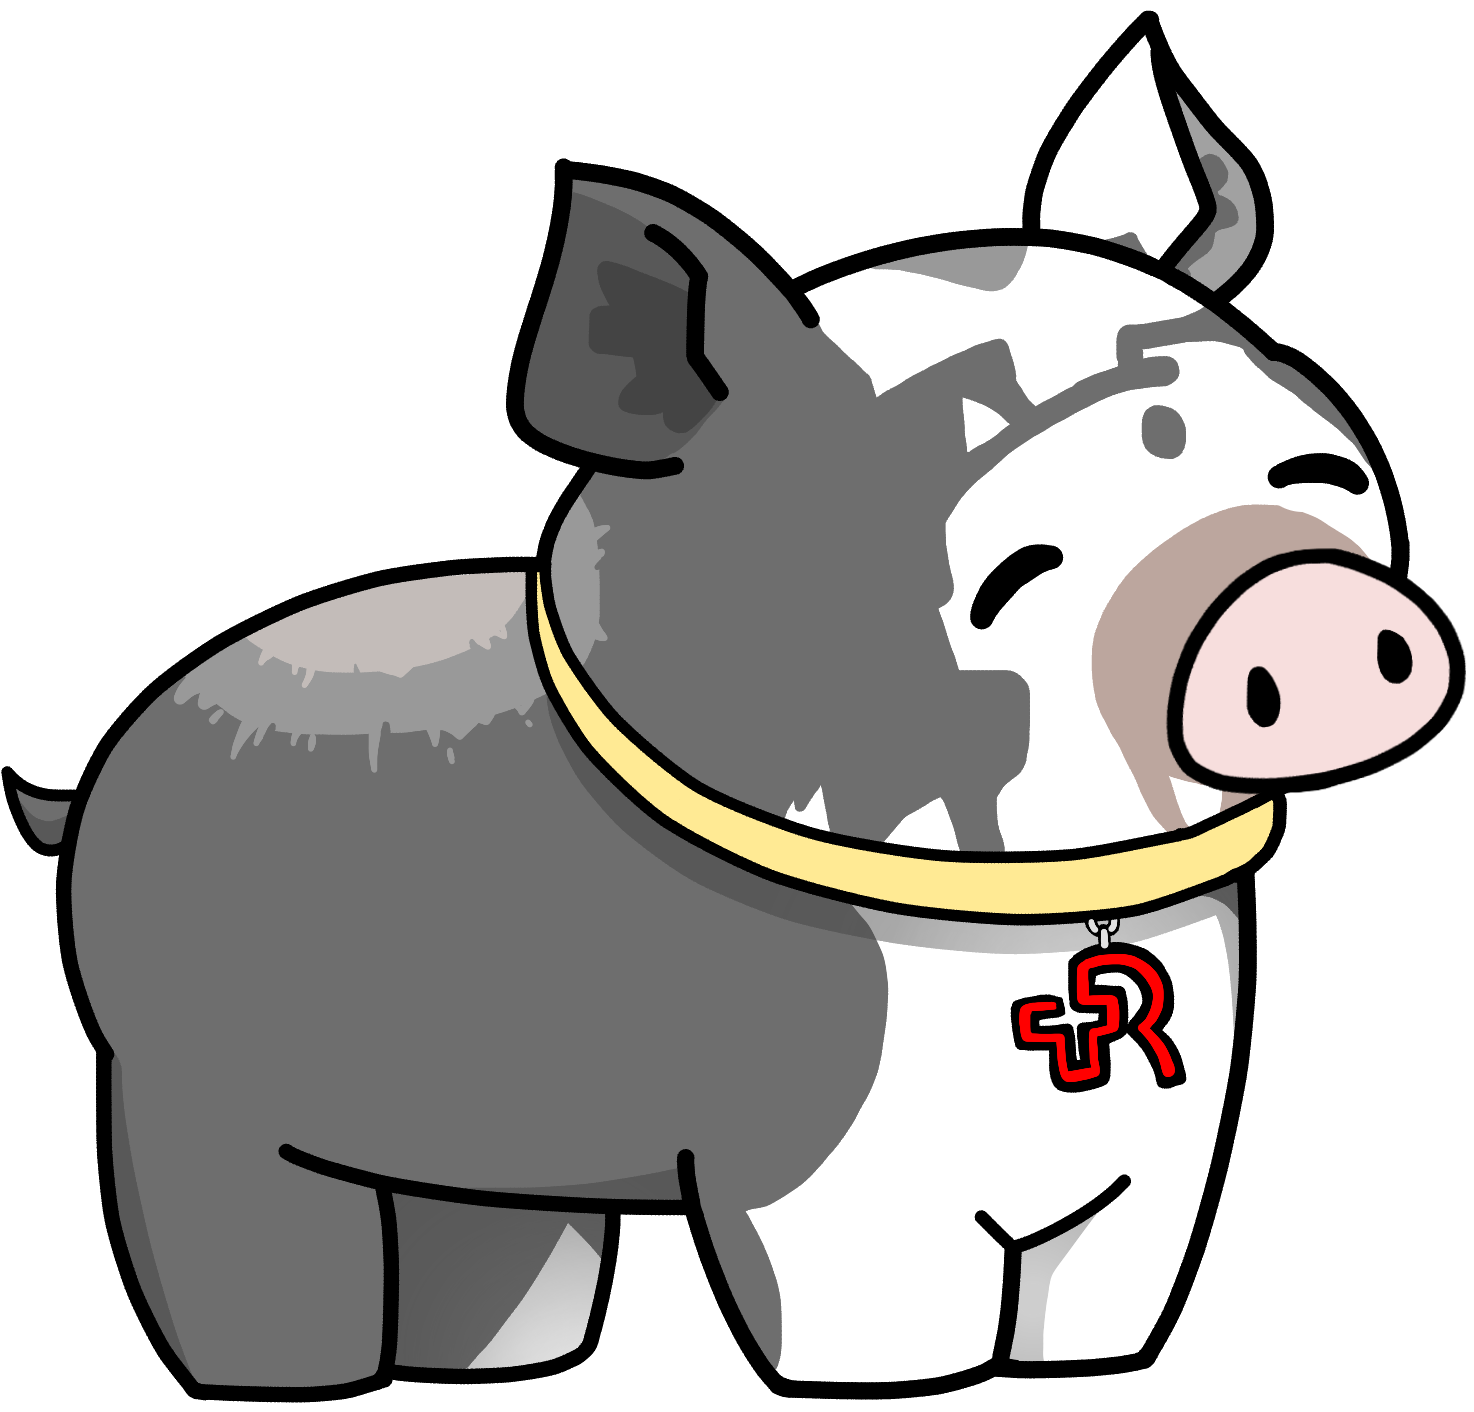
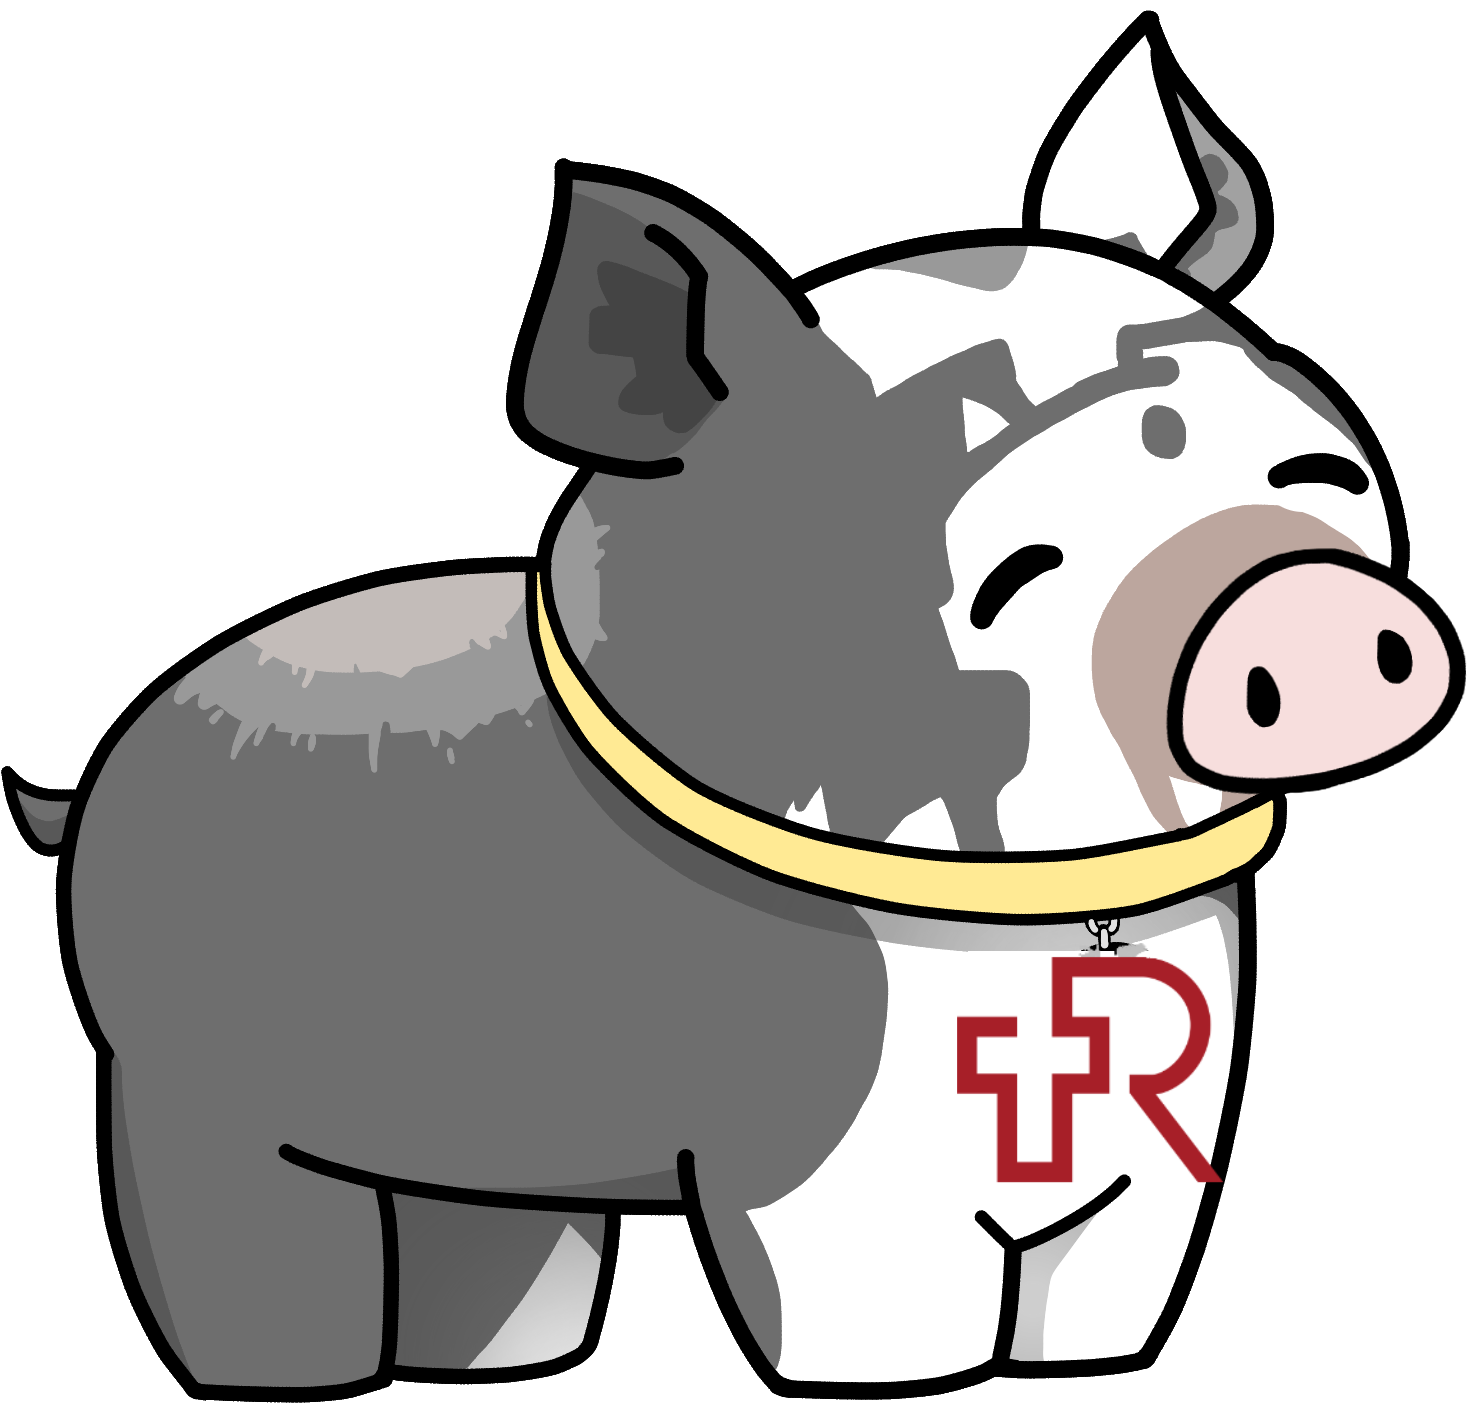
update pig to look "better"

Changed region(s): [[0.6242, 0.6544, 0.8426, 0.8414]]

diff --git a/README.md b/README.md
@@ -28,3 +28,6 @@ Better difficulty curve
 
 change spagetti
 Change buttons?
+
+napkins
+HOW TO PLAY
